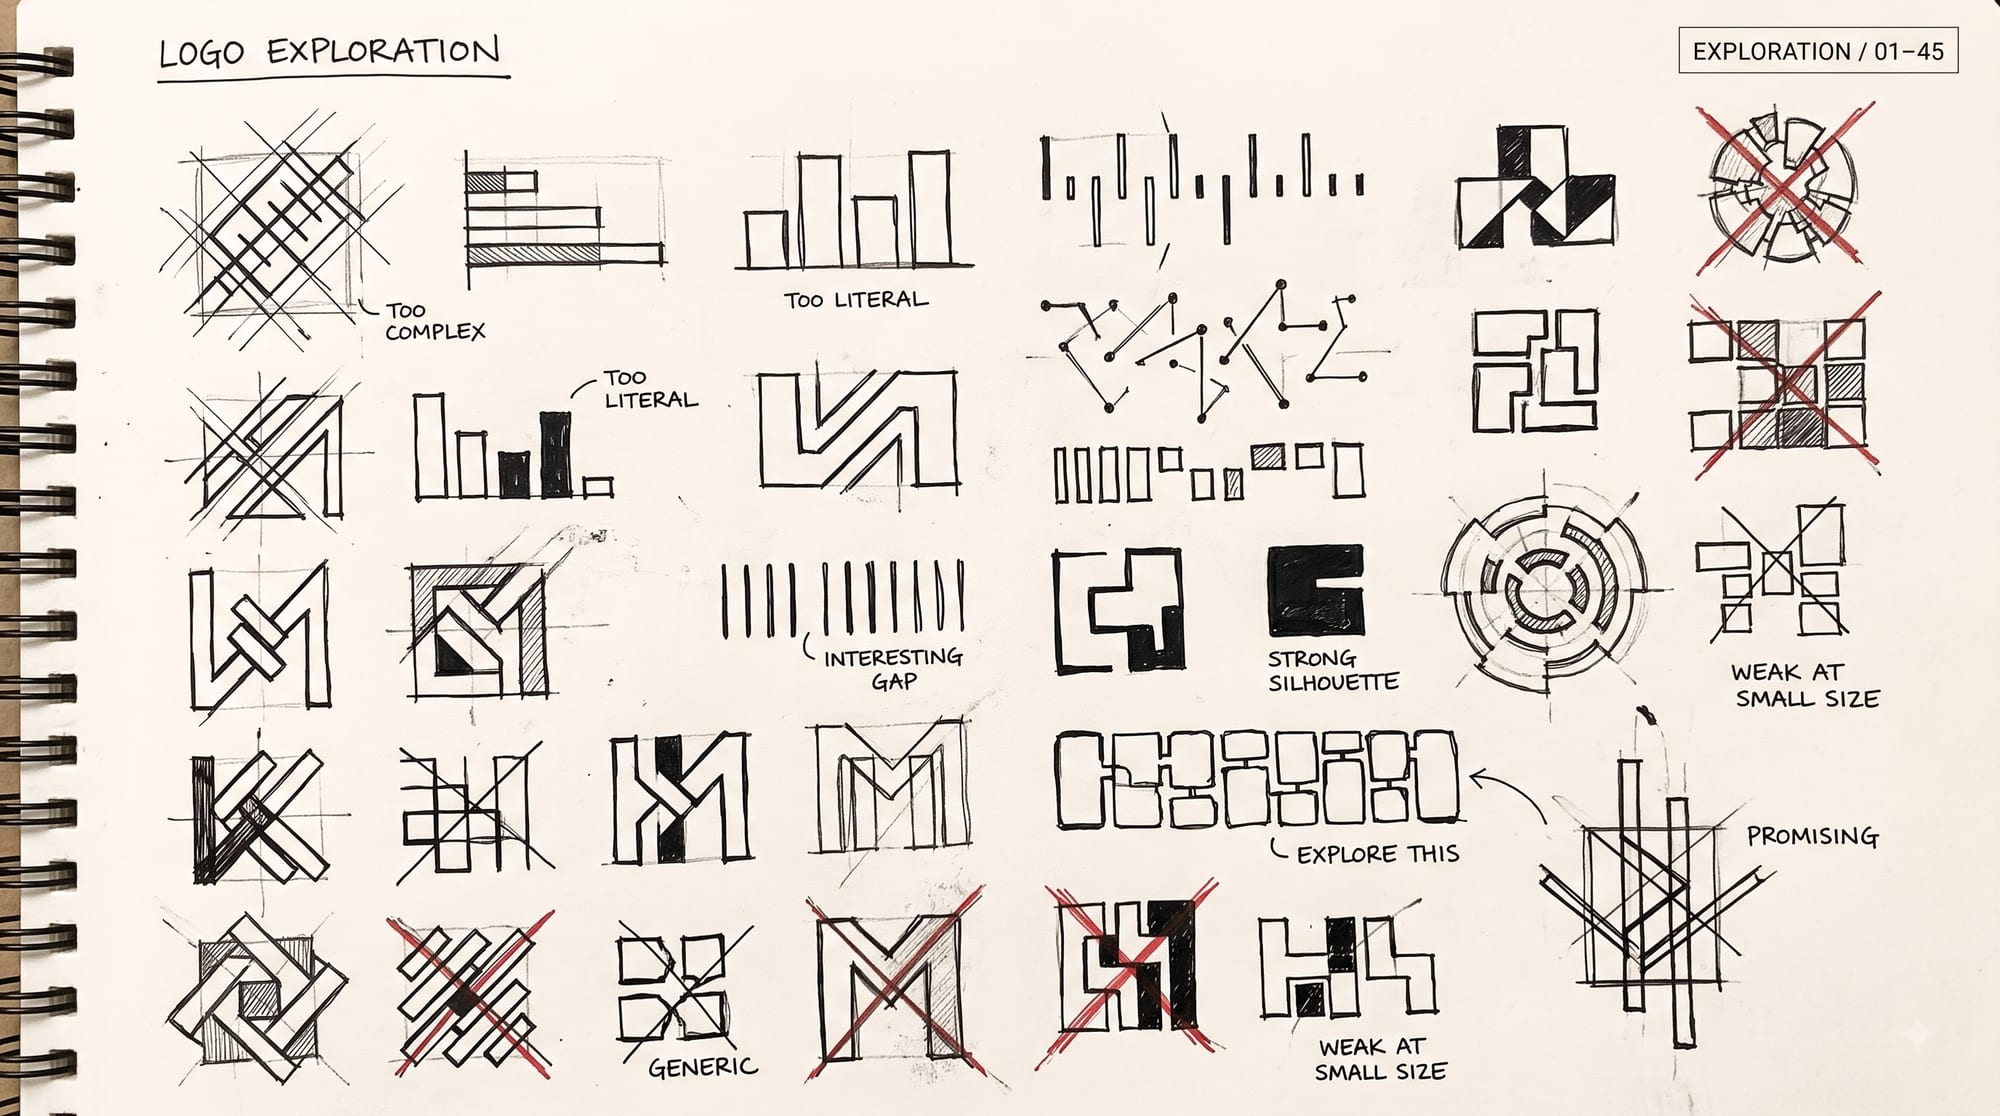
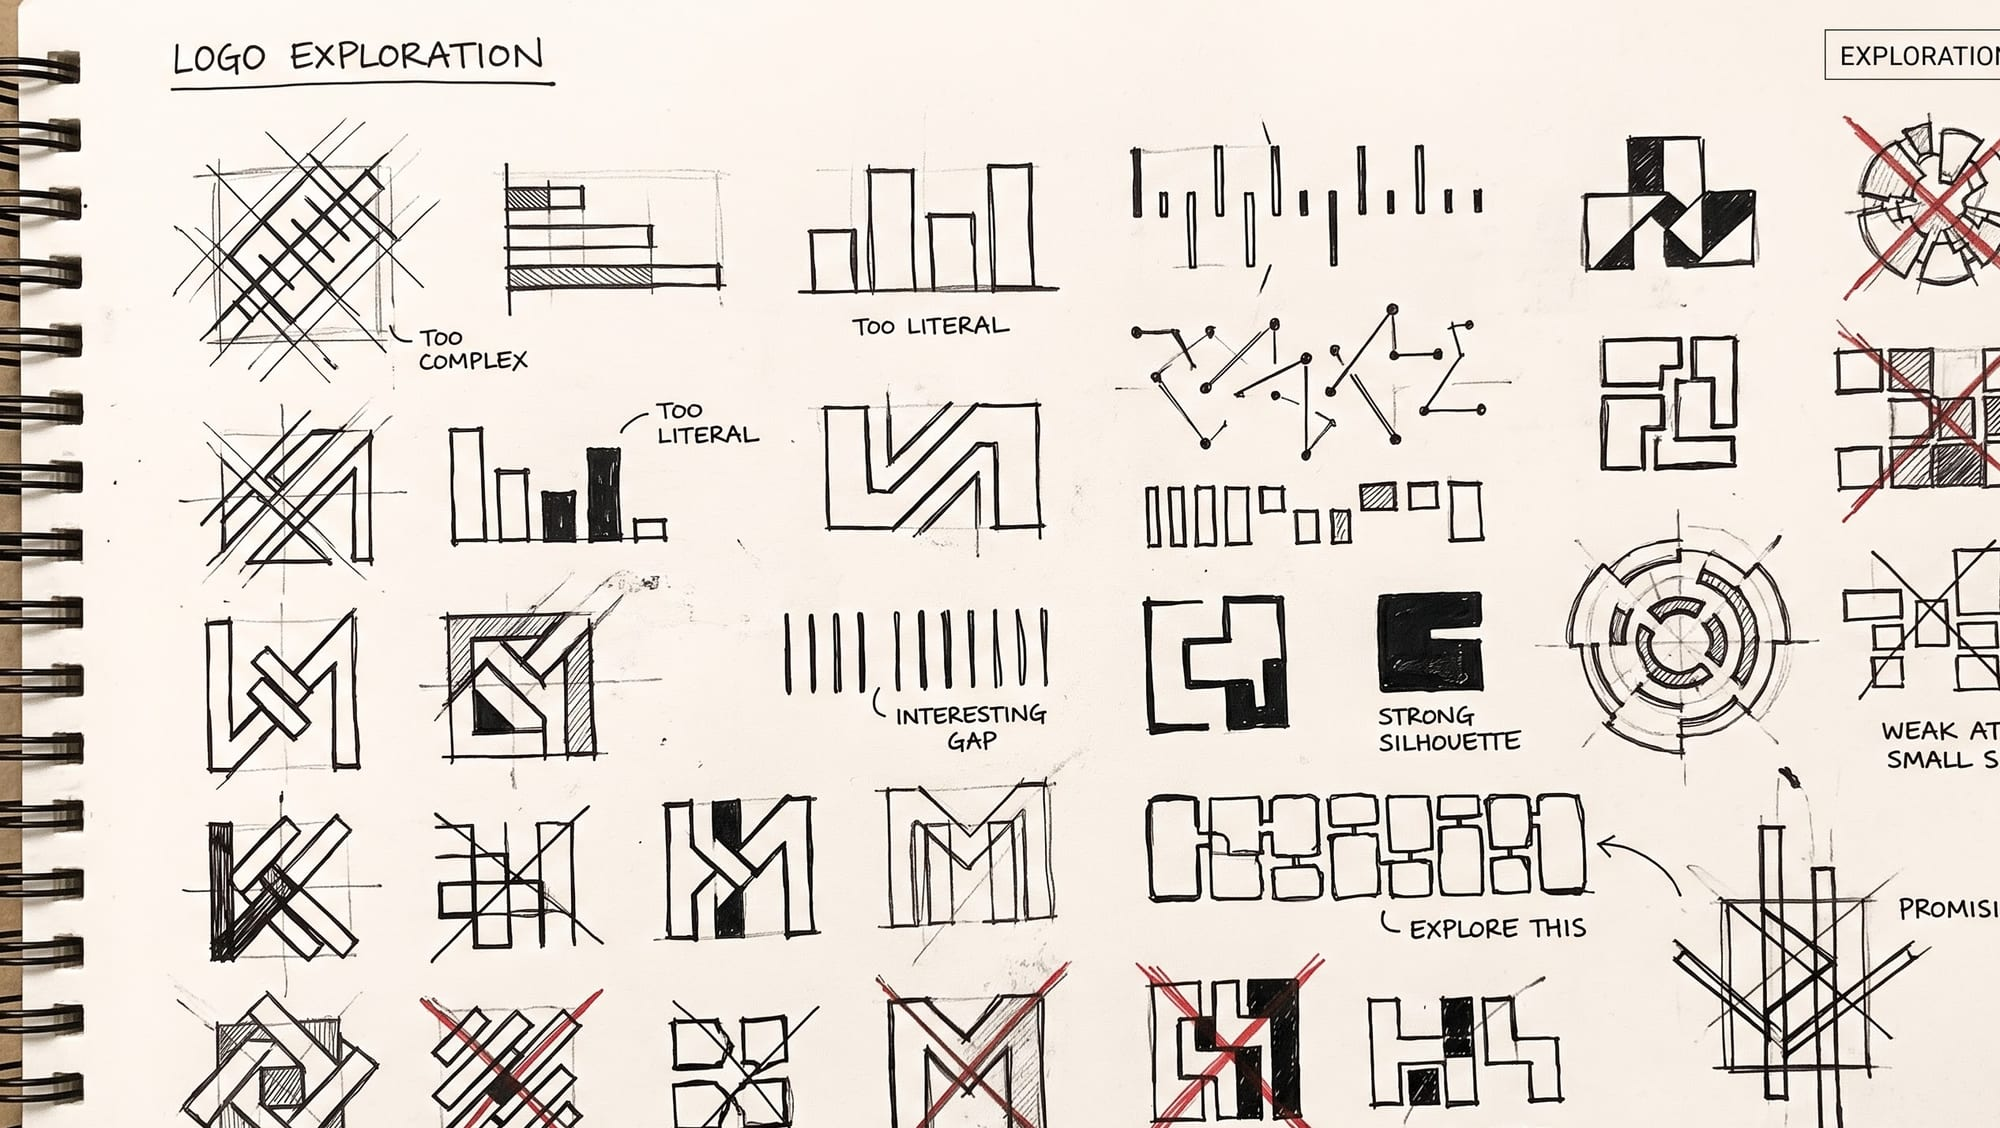
Blue Meter deck: drop 6 slides with a baked-in Gemini sparkle
Slides 03/04/06/08/14/15 carry a faint four-point Gemini watermark in the
artwork — removed from the deck (40 -> 34) and the files deleted from
public/brands/bluemeter/.

Slide 06 was also the source for bluemeter-sketch.jpg — regenerated it from
the same source cropped 8%/7% off the right/bottom edge (sparkle sat in the
blank margin), sketch content intact, byte-scan clean.

Changed region(s): [[0.0, 0.0, 1.0, 1.0], [0.868, 0.6703, 0.899, 0.7007]]

diff --git a/lib/brands.ts b/lib/brands.ts
@@ -16,11 +16,12 @@ export type BrandVis = {
 };
 
 const cap = (s: string) => s.replace(/-/g, " ").replace(/\b\w/g, (c) => c.toUpperCase());
+// 03/04/06/08/14/15 dropped — carry a faint Gemini sparkle baked into the art
 const bluemeterDeck = [
-  "01-cover", "02-the-question", "03-the-idea", "04-visual-research", "05-strategy-vocabulary",
-  "06-logo-exploration", "07-five-ways-into-the-mark", "08-not-every-idea-survives", "09-the-ones-that-stayed",
-  "10-three-directions", "11-one-direction", "12-logo-construction", "13-final-mark", "14-logo-system",
-  "15-wordmark", "16-type-as-infrastructure", "17-blue-as-infrastructure-not-water", "18-a-system-not-a-symbol",
+  "01-cover", "02-the-question", "05-strategy-vocabulary",
+  "07-five-ways-into-the-mark", "09-the-ones-that-stayed",
+  "10-three-directions", "11-one-direction", "12-logo-construction", "13-final-mark",
+  "16-type-as-infrastructure", "17-blue-as-infrastructure-not-water", "18-a-system-not-a-symbol",
   "19-pattern-system", "20-graphic-elements", "21-iconography", "22-data-information-graphics",
   "23-layout-grid-system", "24-photography-direction", "25-art-direction", "26-stationery-system",
   "27-business-documents", "28-technical-documentation", "29-report-presentation-system", "30-social-media-system",
